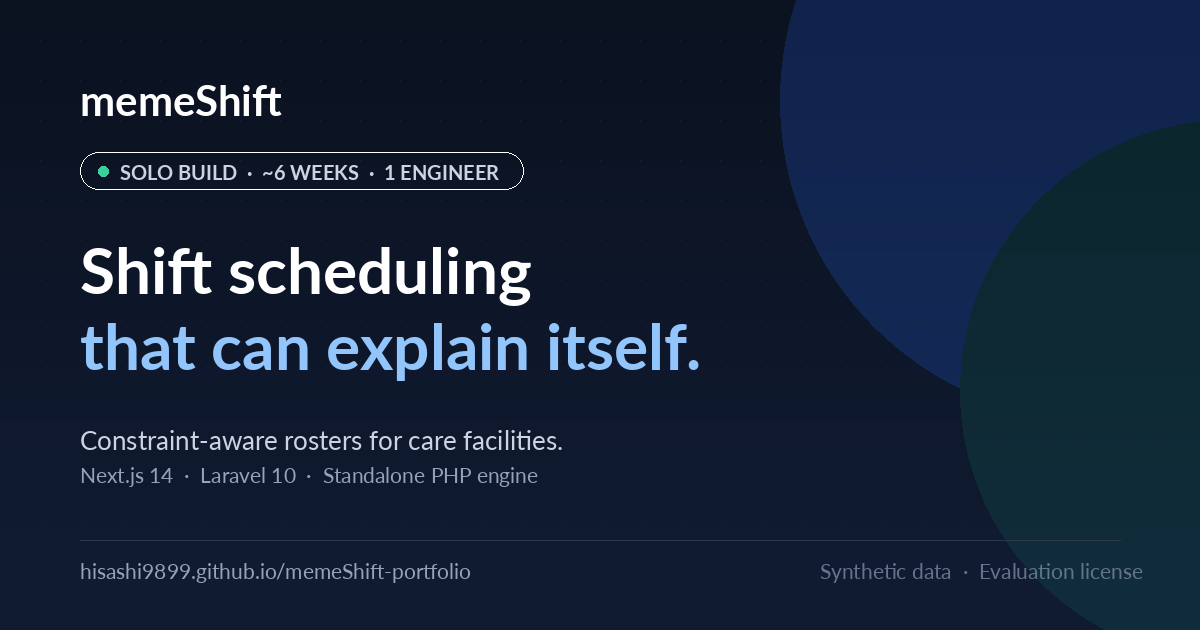
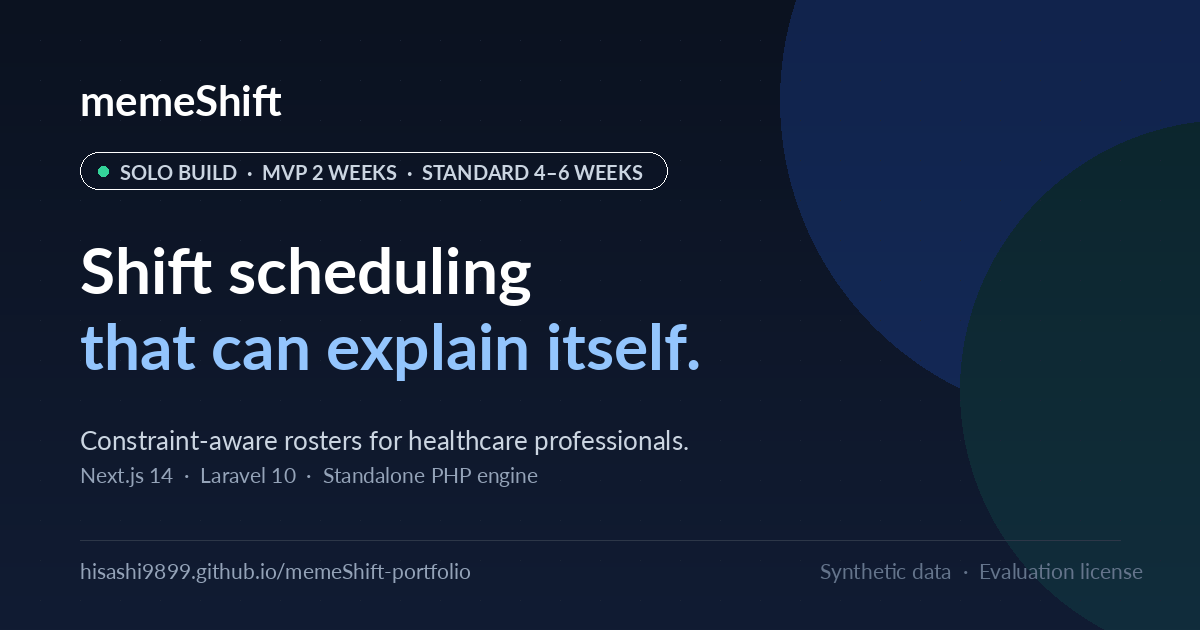
Unify the portfolio timeline around record vs standard estimates
- Present memeShift as the fastest recorded: MVP 2 weeks, production 1 month, CI/CD 1.5 months
- Add the standard estimate: MVP 4-6 weeks, production + CI/CD 10-14 weeks
- Add the complex-integration tier: 6-8 weeks / 16+ weeks
- Align the landing page, OG image, README, and Japanese README
- Use "healthcare professionals" consistently

Changed region(s): [[0.2158, 0.2413, 0.555, 0.3016], [0.3392, 0.6635, 0.5858, 0.7238]]

diff --git a/frontend/src/components/marketing/CaseStudy.tsx b/frontend/src/components/marketing/CaseStudy.tsx
@@ -11,7 +11,7 @@ const metrics = [
   { value: '4,100+', label: 'lines of app code' },
   { value: '37 KB', label: 'scheduling engine' },
   { value: '15', label: 'DB migrations' },
-  { value: '~6 weeks', label: 'solo build' },
+  { value: '2 wk', label: 'fastest MVP' },
 ];
 
 const hardParts = [
@@ -71,6 +71,7 @@ const scope = [
   ['Data', '15 migrations, MySQL 8, requirements, preferences, compatibility rules, overrides'],
   ['Infra', 'Docker Compose, Nginx, GitHub Actions, static GitHub Pages demo'],
   ['Quality', 'PHP lint, backend PHPUnit, engine PHPUnit, TypeScript, Next build, gitleaks'],
+  ['Timeline', 'Fastest recorded: MVP 2 weeks; production 1 month; CI/CD 1.5 months. Standard: MVP 4–6 weeks; production + CI/CD 10–14 weeks.'],
 ];
 
 const stack = [
@@ -110,14 +111,14 @@ export function CaseStudy() {
           <div>
             <div className="inline-flex items-center gap-2 rounded-full border border-white/15 bg-white/5 px-3 py-1 text-[11px] uppercase tracking-[0.16em] text-slate-300">
               <span className="h-1.5 w-1.5 rounded-full bg-emerald-400" />
-              Solo build · ~6 weeks · 1 engineer
+              Solo build · MVP 2 weeks · standard 4–6 weeks
             </div>
             <h1 className="mt-5 text-4xl md:text-5xl font-bold leading-[1.08] tracking-tight">
               Shift scheduling<br />
               that can <span className="text-primary-300">explain itself.</span>
             </h1>
             <p className="mt-5 max-w-xl text-lg leading-relaxed text-slate-300">
-              memeShift generates monthly rosters for care facilities under hard constraints,
+              memeShift generates monthly rosters for healthcare professionals and care facilities under hard constraints,
               measures fairness across the year, and tells you exactly why a roster cannot be
               completed. When it can be repaired, it shows the route before changing anything.
             </p>
@@ -269,7 +270,9 @@ export function CaseStudy() {
               </p>
               <div className="mt-6 grid grid-cols-2 gap-3">
                 {[
-                  ['~6 weeks', 'from first commit to portfolio-ready'],
+                  ['2 wk', 'fastest MVP (memeShift)'],
+                  ['4–6 wk', 'standard MVP estimate'],
+                  ['10–14 wk', 'production + CI/CD'],
                   ['1', 'engineer across the full stack'],
                   ['0', 'real staff or facility records in this repo'],
                   ['6', 'CI checks on every pull request'],
@@ -280,6 +283,10 @@ export function CaseStudy() {
                   </div>
                 ))}
               </div>
+              <p className="mt-4 text-[11px] leading-relaxed text-slate-400">
+                Fastest recorded: MVP 2 weeks, production 1 month, CI/CD 1.5 months.
+                Standard estimate: MVP 4–6 weeks, production + CI/CD 10–14 weeks.
+              </p>
             </div>
             <div className="rounded-2xl border border-white/10 bg-white/[0.04] p-5">
               <h3 className="text-sm font-semibold">Scope delivered</h3>

diff --git a/frontend/src/app/layout.tsx b/frontend/src/app/layout.tsx
@@ -6,7 +6,7 @@ import { ToastProvider } from '@/components/ui/Toast';
 const BASE = process.env.NEXT_PUBLIC_BASE_PATH || '';
 
 const DESCRIPTION =
-  'Constraint-aware shift scheduling for care facilities. Deterministic rosters, fairness scoring, and explainable failures. Solo full-stack build in ~6 weeks.';
+  'Constraint-aware shift scheduling for healthcare professionals. Deterministic rosters, fairness scoring, and explainable failures. Fastest recorded MVP in 2 weeks; standard MVP 4–6 weeks; production + CI/CD 10–14 weeks.';
 
 export const metadata: Metadata = {
   metadataBase: new URL('https://hisashi9899.github.io'),

diff --git a/README.md b/README.md
@@ -2,15 +2,15 @@
 
 [![CI](https://github.com/Hisashi9899/memeShift-portfolio/actions/workflows/deploy.yml/badge.svg)](https://github.com/Hisashi9899/memeShift-portfolio/actions/workflows/deploy.yml)
 
-**Constraint-aware shift scheduling for care facilities — deterministic generation, fairness scoring, and explainable failures.**
+**Constraint-aware shift scheduling for healthcare professionals — deterministic generation, fairness scoring, and explainable failures.**
 
-**Solo build · ~6 weeks · Next.js 14 + Laravel 10 + a standalone PHP scheduling engine.**
+**Solo build · MVP in 2 weeks (record) · standard 4–6 weeks · Next.js 14 + Laravel 10 + a standalone PHP scheduling engine.**
 
-memeShift turns staff availability, required headcount, compatibility rules, and Japanese care-facility shift patterns into a monthly roster. It is built as a small end-to-end product: a Next.js front end, a Laravel API, a standalone PHP scheduling engine, MySQL, Docker, and CI.
+memeShift turns staff availability, required headcount, compatibility rules, and Japanese medical and care shift patterns into a monthly roster. It is built as a small end-to-end product: a Next.js front end, a Laravel API, a standalone PHP scheduling engine, MySQL, Docker, and CI.
 
 The scheduling core is intentionally separated from the web framework, so the same engine can run as a library, a CLI process, or inside the API. Generation is not a black box: when a roster cannot be completed, the system explains which constraint is short, by how much, and what to change.
 
-> **Portfolio snapshot.** This public repository is a sanitized snapshot for technical evaluation. It contains no real staff, facility, patient, customer, domain, or credential data. The UI is in Japanese because the target users are Japanese care facilities; English captions are provided with the screenshots.
+> **Portfolio snapshot.** This public repository is a sanitized snapshot for technical evaluation. It contains no real staff, facility, patient, customer, domain, or credential data. The UI is in Japanese because the target users are Japanese healthcare professionals; English captions are provided with the screenshots.
 
 ---
 
@@ -68,9 +68,9 @@ Most scheduling demos stop at a form and a table. memeShift has to reason about 
 - **Explainability** — every failure names the date, shift, required vs. assigned headcount, and the likely cause.
 - **Repair without silent rewrites** — local repair and break-route search are ranked and shown first; applying a route is an explicit human decision.
 
-The result is a product a care-facility manager can trust, not a spreadsheet with a generate button.
+The result is a product a healthcare manager can trust, not a spreadsheet with a generate button.
 
-### Scope delivered by one engineer in ~6 weeks
+### Scope delivered by one engineer — record and standard timelines
 
 | Area | Evidence |
 |---|---|
@@ -82,6 +82,16 @@ The result is a product a care-facility manager can trust, not a spreadsheet wit
 | Quality | PHP lint, backend PHPUnit, engine PHPUnit, TypeScript, Next build, gitleaks |
 
 > The point is not the line count. The point is that the same person designed the domain model, wrote the engine, shipped the UI, and set up the delivery pipeline.
+
+### Timeline: record vs standard
+
+| Timeline | MVP | Production + CI/CD |
+|---|---|---|
+| **Fastest recorded (memeShift)** | **2 weeks** | **1 month / 1.5 months** |
+| **Standard estimate** | **4–6 weeks** | **10–14 weeks** |
+| Complex integrations / compliance | 6–8 weeks | 16+ weeks |
+
+> The 2-week MVP is a specific record: a tightly scoped v1, a domain I knew deeply, and after-hours work while employed full-time. Standard client work is estimated at 4–6 weeks for an MVP and 10–14 weeks for production + CI/CD.
 
 ### Try it in two minutes
 
@@ -115,7 +125,7 @@ The result is a product a care-facility manager can trust, not a spreadsheet wit
 
 ## Project Overview
 
-Care-facility scheduling is a constrained optimization problem with soft preferences and hard safety rules. A roster must satisfy headcount requirements while respecting:
+Healthcare scheduling is a constrained optimization problem with soft preferences and hard safety rules. A roster must satisfy headcount requirements while respecting:
 
 - night shift → post-night (`明け`) → rest chains;
 - maximum consecutive working days;
@@ -154,7 +164,7 @@ Generation is built from domain rules rather than a generic solver:
 - **Compatibility** — `must_together` / `must_separate` rules prevent unsafe pairings.
 - **Preferences** — requested days off and fixed shifts are applied before general assignment.
 
-The result is a roster that reflects how care facilities actually operate, not a generic round-robin.
+The result is a roster that reflects how medical and care facilities actually operate, not a generic round-robin.
 
 ### 2. Fairness is measured, not assumed
 
@@ -402,11 +412,11 @@ The Git history contains a single sanitized commit. If you find a security issue
 | Decision | Why |
 |---|---|
 | Keep the scheduling engine in plain PHP | Deterministic, testable without Laravel, reusable as a CLI or library |
-| Generate in phases instead of a general solver | Care-facility rules are domain-specific; explicit phases are easier to explain and debug |
+| Generate in phases instead of a general solver | Medical and care rules are domain-specific; explicit phases are easier to explain and debug |
 | Explain failures instead of returning a generic error | Schedulers need to know which constraint to relax |
 | Require explicit confirmation for break routes | A published roster must not be silently rewritten |
 | Ship a static demo instead of a live backend | No credentials, database, or production data are exposed |
-| Keep the UI Japanese | The product targets Japanese care facilities; English documentation and captions make it reviewable internationally |
+| Keep the UI Japanese | The product targets Japanese healthcare professionals; English documentation and captions make it reviewable internationally |
 
 ---
 

diff --git a/README.ja.md b/README.ja.md
@@ -2,10 +2,10 @@
 
 [English](README.md) | **日本語**
 
-介護施設向けのシフト自動作成 Web アプリケーションです。
+医療従事者向けのシフト自動作成 Web アプリケーションです。
 スタッフの希望休・勤務条件・必要人数・相性ルールを入力すると、夜勤→明け→休みの連鎖や連勤上限といった現場固有の制約を考慮した勤務表を生成します。
 
-**1人・約6週間で、フロントエンドからスケジューリングエンジン、Docker、CIまで一貫構築。**
+**1人・MVP 2週間（最速記録）／標準4〜6週間で、フロントエンドからスケジューリングエンジン、Docker、CIまで一貫構築。**
 
 このリポジトリは技術評価用のサニタイズ済みスナップショットです。実運用の設定・ドメイン・認証情報・個人情報は含まれていません。
 
@@ -38,7 +38,7 @@
 - **説明可能性** — 生成不可時に、日付・勤務種別・必要人数/割当人数・原因を提示。
 - **静かな書き換えをしない** — 局所修復と崩しルートを提示し、適用は明示的な確認操作のみ。
 
-### 1人・約6週間で届けた範囲
+### 1人で届けた範囲 — 最速記録と標準見積もり
 
 | 領域 | 内容 |
 |---|---|
@@ -50,6 +50,16 @@
 | 品質 | PHP lint、backend/engine PHPUnit、TypeScript、Next build、gitleaks |
 
 > 行数そのものが価値ではありません。同じ1人がドメインモデルを設計し、エンジンを書き、UIを届け、配信パイプラインまで整えたことが要点です。
+
+### 期間の目安 — 最速記録と標準見積もり
+
+| 区分 | MVP | 本番 + CI/CD |
+|---|---|---|
+| **最速記録（memeShift）** | **2週間** | **1ヶ月 / 1.5ヶ月** |
+| **標準見積もり** | **4〜6週間** | **10〜14週間** |
+| 複雑な連携・コンプライアンス | 6〜8週間 | 16週間以上 |
+
+> 2週間MVPは、スコープを絞り、ドメイン知識があり、フルタイム勤務の傍ら終業後・休日に開発した特殊な記録です。通常のお見積もりは、MVP 4〜6週間、本番+CI/CD 10〜14週間を目安にしています。
 
 ### 2分で試す
 
